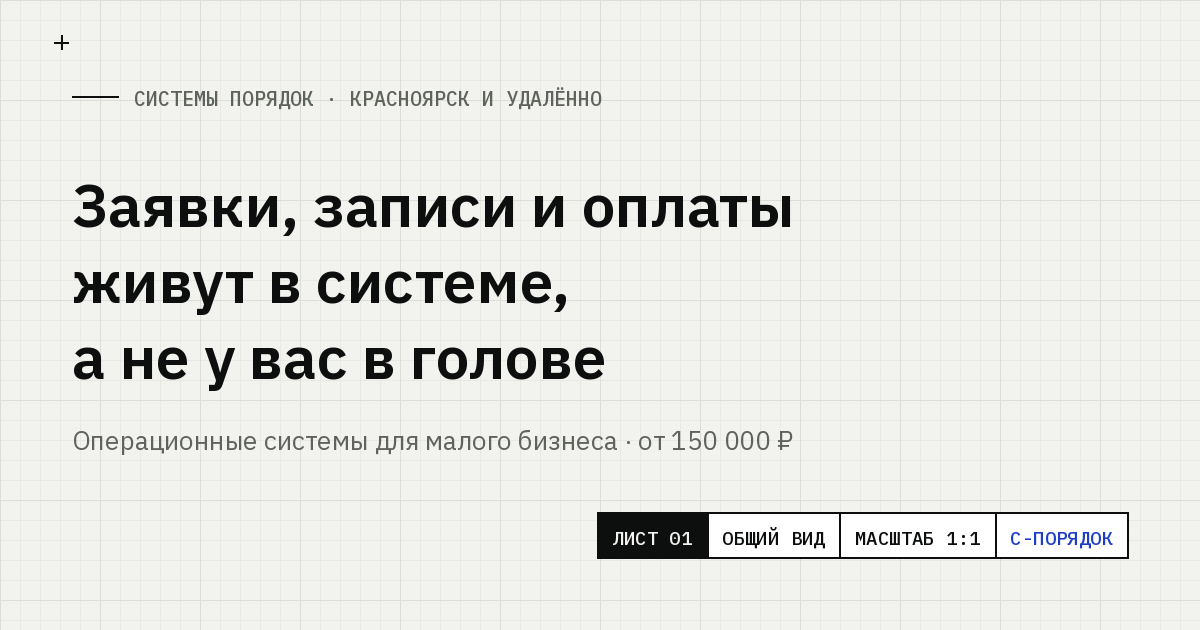
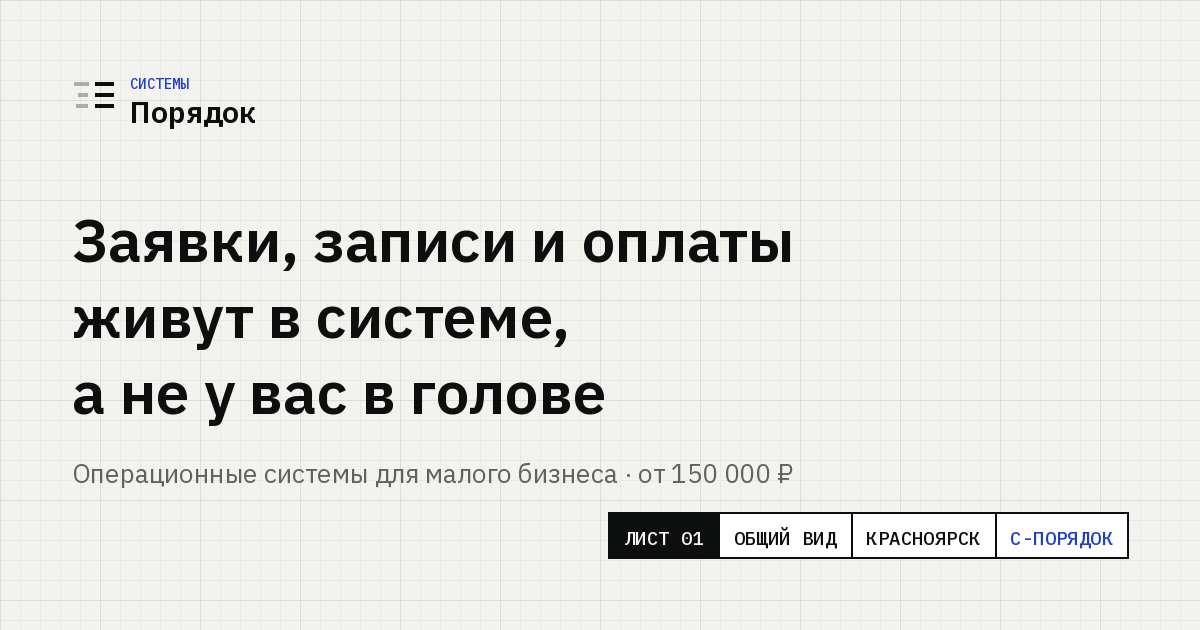
Логотип, название «Системы Порядок», реквизиты самозанятого
Логотип. Знак — обрывки вразнобой слева, ровные линии справа: тезис сайта,
сведённый к шести штрихам. Читается от 60px до 13px, нарисован в currentColor,
поэтому одинаково работает на бумаге и на графите. Из четырёх проб выбран
этот: варианты с наклоном разваливались в мелком размере, вариант со
штампом терял смысл.

Название приведено к «Системы Порядок»: слово «Системы» ушло наверх мелкой
надписью, «Порядок» остался крупным. Так название читается в нужном порядке,
но сильное слово по-прежнему главное. Обновлены заголовок страницы, подвал
и favicon.

Почта заменена на glukhovas@yandex.ru — гугловая в России сейчас
не годится для указания в документах.

Реквизиты самозанятого добавлены в политику конфиденциальности: ФИО, статус,
ИНН, регион, телефон, почта. Появился отдельный пункт «Реквизиты» и строка
про чек из «Мой налог». Убрана пометка о том, что документ — заготовка.

Паспорт и СНИЛС на сайт не выносятся и в репозиторий не попадают: в
реквизитах самозанятого они не нужны, а публикация даёт готовый набор
для оформления займов и сим-карт на чужое имя.

Claude-Session: https://claude.ai/code/session_019G2LsnhqPsGKyL1ERjGrA5

Changed region(s): [[0.0617, 0.2714, 0.6783, 0.7841], [0.0617, 0.1206, 0.4933, 0.2111], [0.4933, 0.8143, 0.8325, 0.9048]]

diff --git a/landing/templates/landing/privacy.html b/landing/templates/landing/privacy.html
@@ -24,10 +24,15 @@
 
       <h3>1. Кто обрабатывает данные</h3>
       <p>
-        {{ owner }}{% if SITE_INN %}, ИНН {{ SITE_INN }}{% endif %} (далее — «я»),
-        {{ SITE_CITY }}. Связь: <a href="tel:{{ phone }}">{{ phone_pretty }}</a>,
-        <a href="mailto:{{ email }}">{{ email }}</a>.
+        {{ owner }} (далее — «я»){% if SITE_STATUS %}, {{ SITE_STATUS }}{% endif %}.
+        {% if SITE_REGION %}Регион деятельности — {{ SITE_REGION }}.{% endif %}
       </p>
+      <ul class="doc__list">
+        {% if SITE_INN %}<li>ИНН {{ SITE_INN }}</li>{% endif %}
+        <li>Телефон: <a href="tel:{{ phone }}">{{ phone_pretty }}</a></li>
+        <li>Почта: <a href="mailto:{{ email }}">{{ email }}</a></li>
+        <li>Сайт: s-poryadok.ru</li>
+      </ul>
 
       <h3>2. Какие данные собираются</h3>
       <ul class="doc__list">
@@ -93,17 +98,25 @@
         из пункта 1 — отвечу в течение трёх рабочих дней.
       </p>
 
-      <div class="note" style="margin-top:calc(var(--u)*5)">
-        <b>Перед публикацией:</b> проверьте этот текст под свою ситуацию — впишите ИНН,
-        статус (ИП или самозанятый) и уберите пункты, которые к вам не относятся.
-        Документ написан как рабочая заготовка, а не как юридическое заключение.
-      </div>
+      <h3>10. Реквизиты</h3>
+      <ul class="doc__list">
+        <li>{{ owner }}</li>
+        {% if SITE_STATUS %}<li>Статус: {{ SITE_STATUS }}</li>{% endif %}
+        {% if SITE_INN %}<li>ИНН: {{ SITE_INN }}</li>{% endif %}
+        {% if SITE_REGION %}<li>Регион деятельности: {{ SITE_REGION }}</li>{% endif %}
+        <li>Телефон: <a href="tel:{{ phone }}">{{ phone_pretty }}</a></li>
+        <li>Почта: <a href="mailto:{{ email }}">{{ email }}</a></li>
+      </ul>
+      <p>
+        Чек по оплате формируется через приложение «Мой налог» и приходит
+        на указанный вами номер телефона или почту.
+      </p>
     </div>
 
     <div class="stamp" aria-hidden="true">
       <span class="s-num">Лист 00</span>
       <span class="s-name">Политика конфиденциальности</span>
-      <span class="s-scale">Пунктов 9</span>
+      <span class="s-scale">Пунктов 10</span>
       <span class="s-org">С-Порядок</span>
     </div>
   </div>

diff --git a/landing/templates/landing/base.html b/landing/templates/landing/base.html
@@ -4,7 +4,7 @@
 <meta charset="UTF-8">
 <meta name="viewport" content="width=device-width, initial-scale=1">
 <meta name="theme-color" content="#F2F2EE">
-<title>{% block title %}Порядок — операционные системы для малого бизнеса в Красноярске{% endblock %}</title>
+<title>{% block title %}Системы Порядок — операционные системы для малого бизнеса в Красноярске{% endblock %}</title>
 <meta name="description" content="{% block description %}Собираю операционные системы для малого бизнеса: заявки, записи, оплаты, напоминания, отчётность в одном месте. Python/Django. Красноярск и удалённо. Бесплатный разбор процессов.{% endblock %}">
 <link rel="canonical" href="{{ request.scheme }}://{{ request.get_host }}{{ request.path }}">
 
@@ -38,8 +38,14 @@ if(!matchMedia('(prefers-reduced-motion: reduce)').matches){
 
 <header class="head" id="head">
   <div class="wrap head__in">
-    <a class="logo" href="{% url 'index' %}">
-      <b>Порядок</b><i>Системы</i>
+    <a class="logo" href="{% url 'index' %}" aria-label="Системы Порядок — на главную">
+      <svg class="logo__mark" viewBox="0 0 32 32" width="32" height="32" aria-hidden="true" focusable="false">
+        <g stroke="currentColor" stroke-width="3.4">
+          <path d="M2 8h10" opacity=".38"/><path d="M5 16h6" opacity=".38"/><path d="M3 24h8" opacity=".38"/>
+          <path d="M17 8h13"/><path d="M17 16h13"/><path d="M17 24h13"/>
+        </g>
+      </svg>
+      <span class="logo__word"><i>Системы</i><b>Порядок</b></span>
     </a>
     <nav class="nav" id="nav" aria-label="Разделы сайта">
       {% block nav %}
@@ -66,7 +72,8 @@ if(!matchMedia('(prefers-reduced-motion: reduce)').matches){
 
 <footer class="foot">
   <div class="wrap foot__in">
-    <p>{{ SITE_OWNER }} · {{ SITE_CITY }} и удалённо</p>
+    <p>Системы Порядок · {{ SITE_CITY }} и удалённо</p>
+    <p>{{ SITE_OWNER }}{% if SITE_INN %} · ИНН {{ SITE_INN }}{% endif %}</p>
     <p><a href="tel:{{ SITE_PHONE }}">{{ SITE_PHONE_PRETTY }}</a></p>
     <p><a href="{% url 'privacy' %}">Политика конфиденциальности</a></p>
     <p>Python / Django · {% now "Y" %}</p>

diff --git a/landing/static/landing/css/site.css b/landing/static/landing/css/site.css
@@ -189,11 +189,21 @@ h3,.h3{font-size:var(--t-h3);font-weight:600;line-height:1.25;letter-spacing:-.0
 @supports not (backdrop-filter:blur(8px)){.head{background:var(--paper)}}
 .head__in{display:flex;align-items:center;gap:var(--gut);min-height:64px}
 .logo{
-  display:flex;align-items:baseline;gap:.5em;text-decoration:none;
-  font:600 .9375rem/1 var(--f-sans);letter-spacing:-.01em;margin-right:auto;
+  display:flex;align-items:center;gap:10px;text-decoration:none;
+  margin-right:auto;color:var(--graphite);
 }
-.logo b{font-weight:600}
-.logo i{font:500 var(--t-tag)/1 var(--f-mono);font-style:normal;color:var(--ink);letter-spacing:.12em;text-transform:uppercase}
+.logo__mark{width:26px;height:26px;flex:none;display:block}
+.logo__word{display:flex;flex-direction:column;line-height:1}
+.logo__word i{
+  font:500 .625rem/1 var(--f-mono);font-style:normal;color:var(--ink);
+  letter-spacing:.18em;text-transform:uppercase;margin-bottom:3px;
+}
+.logo__word b{font:600 1.0625rem/1 var(--f-sans);letter-spacing:-.02em}
+.logo:hover .logo__mark{color:var(--ink)}
+@media (max-width:400px){
+  .logo__mark{width:22px;height:22px}
+  .logo__word b{font-size:.9375rem}
+}
 .nav{display:flex;gap:clamp(14px,1.6vw,26px)}
 .nav a{
   font:400 var(--t-tag)/1 var(--f-mono);text-transform:uppercase;letter-spacing:.1em;

diff --git a/core/settings.py b/core/settings.py
@@ -31,10 +31,15 @@ DEBUG = os.getenv('DEBUG', 'True') == 'True'
 SITE_OWNER = os.getenv('SITE_OWNER', 'Глухов Антон Сергеевич')
 SITE_PHONE = os.getenv('SITE_PHONE', '+79954412021')
 SITE_PHONE_PRETTY = os.getenv('SITE_PHONE_PRETTY', '+7 (995) 441-20-21')
-SITE_EMAIL = os.getenv('SITE_EMAIL', 'antonsergeevichglukhov@gmail.com')
+SITE_EMAIL = os.getenv('SITE_EMAIL', 'glukhovas@yandex.ru')
 SITE_CITY = os.getenv('SITE_CITY', 'Красноярск')
+SITE_REGION = os.getenv('SITE_REGION', 'Красноярский край')
 SITE_TELEGRAM = os.getenv('SITE_TELEGRAM', '')       # ник без @, для кнопки «написать»
-SITE_INN = os.getenv('SITE_INN', '')                 # ИНН — подставится в политику
+SITE_INN = os.getenv('SITE_INN', '382800965145')     # ИНН — подставится в политику
+# Налоговый статус. Паспорт и СНИЛС здесь не нужны и на сайт не выносятся.
+SITE_STATUS = os.getenv(
+    'SITE_STATUS',
+    'самозанятый, налог на профессиональный доход')
 
 # --- Telegram ---
 TELEGRAM_BOT_TOKEN = os.getenv('TELEGRAM_BOT_TOKEN')

diff --git a/landing/context_processors.py b/landing/context_processors.py
@@ -11,5 +11,7 @@ def site(request):
         'SITE_CITY': settings.SITE_CITY,
         'SITE_TELEGRAM': settings.SITE_TELEGRAM,
         'SITE_INN': settings.SITE_INN,
+        'SITE_REGION': settings.SITE_REGION,
+        'SITE_STATUS': settings.SITE_STATUS,
         'YANDEX_METRIKA_ID': settings.YANDEX_METRIKA_ID,
     }
